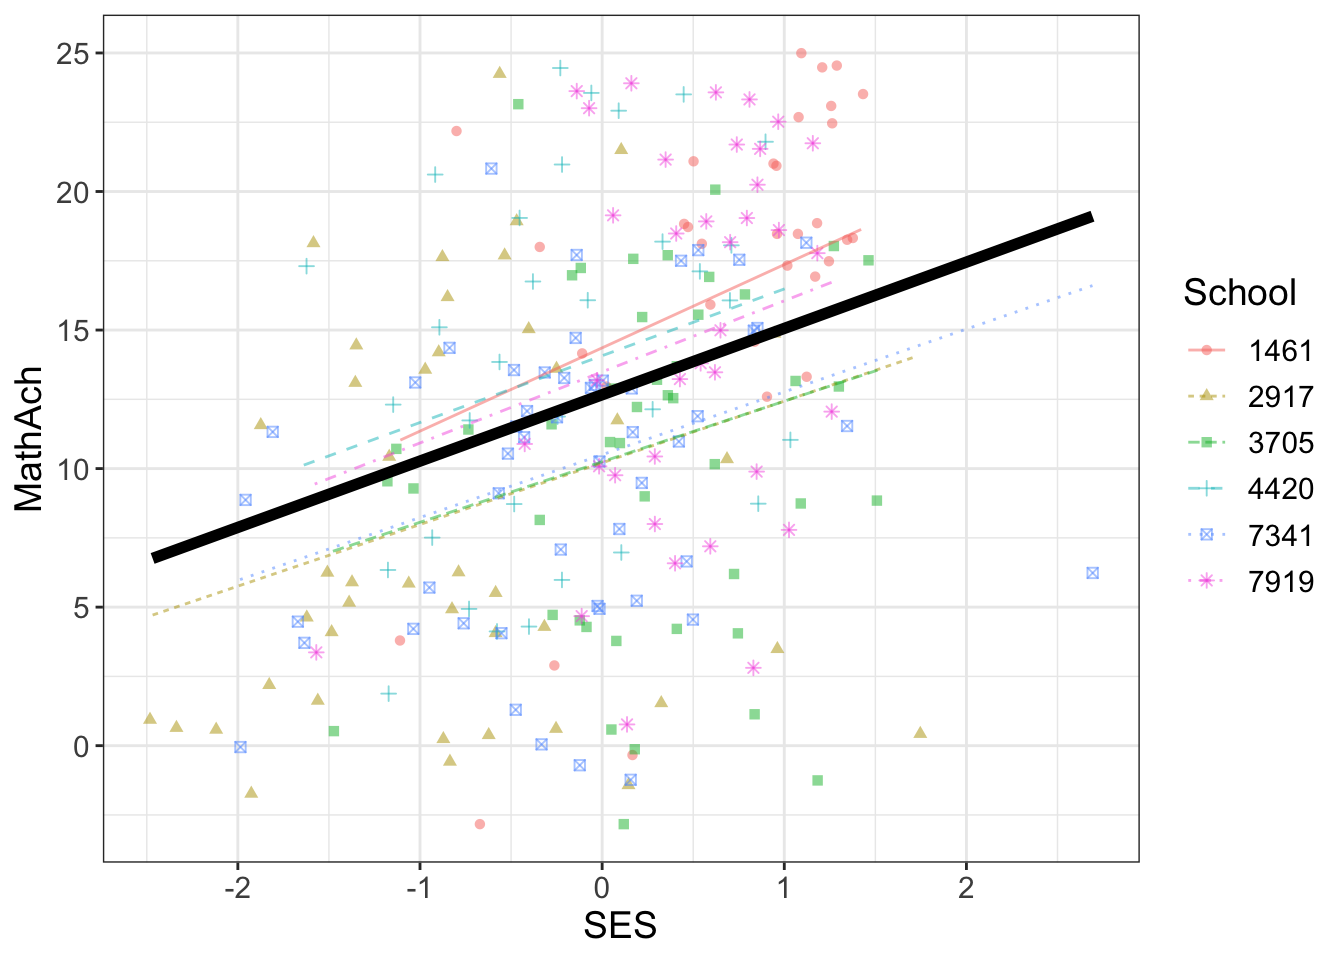
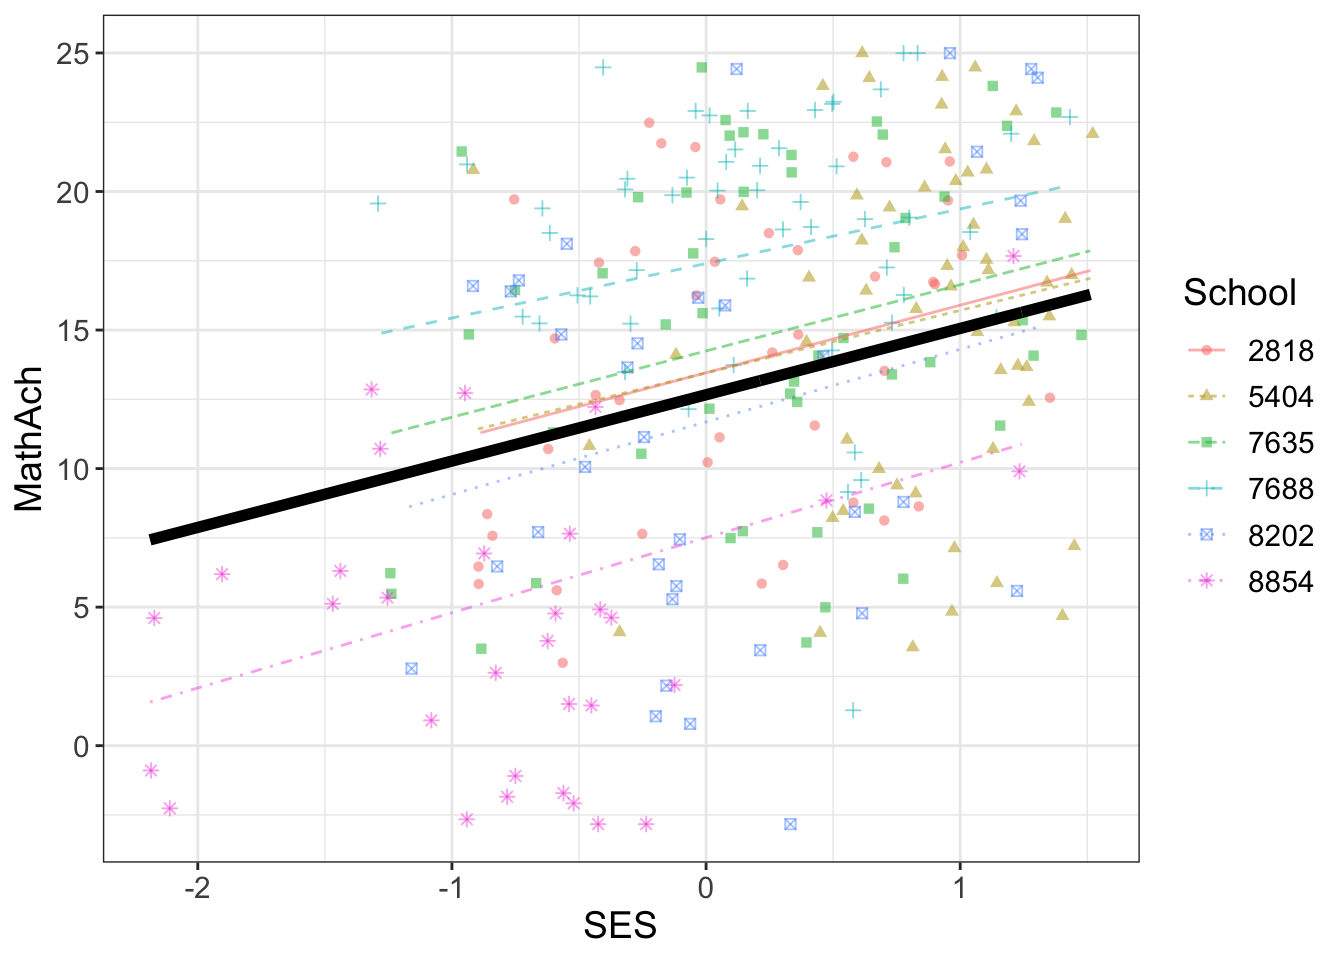
Built site for gh-pages

diff --git a/example_2.html b/example_2.html
@@ -409,7 +409,7 @@ SES -0.045</code></pre>
 <h4 class="anchored" data-anchor-id="comments-1">Comments</h4>
 <p>Fixed effect is very clear with individual schools being close to parallel</p>
 <div class="cell">
-<div class="sourceCode cell-code" id="cb35"><pre class="sourceCode r code-with-copy"><code class="sourceCode r"><span id="cb35-1"><a href="#cb35-1" aria-hidden="true" tabindex="-1"></a><span class="co"># no predictor</span></span>
+<div class="sourceCode cell-code" id="cb35"><pre class="sourceCode r code-with-copy"><code class="sourceCode r"><span id="cb35-1"><a href="#cb35-1" aria-hidden="true" tabindex="-1"></a><span class="co"># compare models</span></span>
 <span id="cb35-2"><a href="#cb35-2" aria-hidden="true" tabindex="-1"></a><span class="fu">model.comparison</span>(mod_baseline, mod_ses)</span></code><button title="Copy to Clipboard" class="code-copy-button"><i class="bi"></i></button></pre></div>
 <div class="cell-output cell-output-stderr">
 <pre><code>refitting model(s) with ML (instead of REML)</code></pre>
@@ -432,8 +432,109 @@ $r_squared_change
 </section>
 <section id="comments-2" class="level4">
 <h4 class="anchored" data-anchor-id="comments-2">Comments</h4>
-<p>Bayes Factor favors mod_ses and great p value</p>
-<p>to be continued…</p>
+<ul>
+<li><p>Bayes Factor favors mod_ses and great p value</p></li>
+<li><p>R^2 change (by using mod_ses that has SES predictor):</p>
+<ul>
+<li><p>explains 5.92 % of the residual variance. Difference between fitted models for each cluster (in this case, each school).</p></li>
+<li><p>43.94 % of variance in intercept (relative to the mod_base that has no predictor - juts the mean of every data point)</p></li>
+</ul></li>
+<li><p>Visualize that….</p></li>
+</ul>
+<div class="cell">
+<div class="sourceCode cell-code" id="cb38"><pre class="sourceCode r code-with-copy"><code class="sourceCode r"><span id="cb38-1"><a href="#cb38-1" aria-hidden="true" tabindex="-1"></a><span class="co"># see the difference with 3 example schools</span></span>
+<span id="cb38-2"><a href="#cb38-2" aria-hidden="true" tabindex="-1"></a><span class="fu">compare.fits</span>(MathAch<span class="sc">~</span>SES <span class="sc">|</span> School, mod_baseline, mod_ses, <span class="at">data =</span> math)</span></code><button title="Copy to Clipboard" class="code-copy-button"><i class="bi"></i></button></pre></div>
+<div class="cell-output-display">
+<p><img src="example_2_files/figure-html/unnamed-chunk-6-1.png" class="img-fluid" width="672"></p>
+</div>
+</div>
+<ul>
+<li><p>Plots are narrow</p></li>
+<li><p>sample=n is not observed</p></li>
+</ul>
+<div class="cell">
+<div class="sourceCode cell-code" id="cb39"><pre class="sourceCode r code-with-copy"><code class="sourceCode r"><span id="cb39-1"><a href="#cb39-1" aria-hidden="true" tabindex="-1"></a><span class="co"># a better model including Minority</span></span>
+<span id="cb39-2"><a href="#cb39-2" aria-hidden="true" tabindex="-1"></a>mod_ses_minority <span class="ot">&lt;-</span> <span class="fu">lmer</span>(MathAch<span class="sc">~</span>SES <span class="sc">+</span> Minority <span class="sc">+</span> (SES<span class="sc">|</span>School), <span class="at">data=</span>math)</span>
+<span id="cb39-3"><a href="#cb39-3" aria-hidden="true" tabindex="-1"></a><span class="fu">visualize</span>(mod_ses_minority, <span class="at">plot =</span> <span class="st">"model"</span>, <span class="at">sample =</span> <span class="dv">6</span>)</span></code><button title="Copy to Clipboard" class="code-copy-button"><i class="bi"></i></button></pre></div>
+<div class="cell-output-display">
+<p><img src="example_2_files/figure-html/unnamed-chunk-7-1.png" class="img-fluid" width="672"></p>
+</div>
+<div class="sourceCode cell-code" id="cb40"><pre class="sourceCode r code-with-copy"><code class="sourceCode r"><span id="cb40-1"><a href="#cb40-1" aria-hidden="true" tabindex="-1"></a><span class="fu">summary</span>(mod_ses_minority)</span></code><button title="Copy to Clipboard" class="code-copy-button"><i class="bi"></i></button></pre></div>
+<div class="cell-output cell-output-stdout">
+<pre><code>Linear mixed model fit by REML ['lmerMod']
+Formula: MathAch ~ SES + Minority + (SES | School)
+   Data: math
+
+REML criterion at convergence: 46443
+
+Scaled residuals: 
+    Min      1Q  Median      3Q     Max 
+-3.1742 -0.7243  0.0283  0.7577  3.0047 
+
+Random effects:
+ Groups   Name        Variance Std.Dev. Corr 
+ School   (Intercept)  3.9362  1.9840        
+          SES          0.3187  0.5645   -0.40
+ Residual             35.9967  5.9997        
+Number of obs: 7185, groups:  School, 160
+
+Fixed effects:
+            Estimate Std. Error t value
+(Intercept)  13.5047     0.1827   73.92
+SES           2.1326     0.1156   18.44
+MinorityYes  -2.9782     0.2081  -14.31
+
+Correlation of Fixed Effects:
+            (Intr) SES   
+SES         -0.194       
+MinorityYes -0.307  0.173</code></pre>
+</div>
+</div>
+<ul>
+<li>Compare …</li>
+</ul>
+<div class="cell">
+<div class="sourceCode cell-code" id="cb42"><pre class="sourceCode r code-with-copy"><code class="sourceCode r"><span id="cb42-1"><a href="#cb42-1" aria-hidden="true" tabindex="-1"></a><span class="co"># better model?</span></span>
+<span id="cb42-2"><a href="#cb42-2" aria-hidden="true" tabindex="-1"></a><span class="co"># compare models</span></span>
+<span id="cb42-3"><a href="#cb42-3" aria-hidden="true" tabindex="-1"></a><span class="fu">model.comparison</span>(mod_baseline, mod_ses_minority)</span></code><button title="Copy to Clipboard" class="code-copy-button"><i class="bi"></i></button></pre></div>
+<div class="cell-output cell-output-stderr">
+<pre><code>refitting model(s) with ML (instead of REML)</code></pre>
+</div>
+<div class="cell-output cell-output-stdout">
+<pre><code>$statistics
+                      aic      bic  bayes.factor      p
+mod_baseline     47122.79 47143.43  0.000000e+00 &lt;2e-16
+mod_ses_minority 46457.03 46505.19 3.917437e+138       
+
+$predicted_differences
+   0%   25%   50%   75%  100% 
+0.000 0.564 1.187 2.028 7.690 
+
+$r_squared_change
+   Residual (Intercept) 
+ 0.08050517  0.54305152 </code></pre>
+</div>
+</div>
+<ul>
+<li><p>Bayes Factor is much better</p></li>
+<li><p>R^2 change (by using mod_ses_minority that has SES and Minority predictors):</p>
+<ul>
+<li><p>explains 8.05 % of the residual variance. Difference between fitted models for each cluster (in this case, each school).</p></li>
+<li><p>54.31 % of variance in intercept (relative to the mod_base that has no predictor - juts the mean of every data point)</p></li>
+</ul></li>
+<li><p>Visualize that….</p></li>
+</ul>
+<div class="cell">
+<div class="sourceCode cell-code" id="cb45"><pre class="sourceCode r code-with-copy"><code class="sourceCode r"><span id="cb45-1"><a href="#cb45-1" aria-hidden="true" tabindex="-1"></a><span class="co"># see the difference with 3 example schools</span></span>
+<span id="cb45-2"><a href="#cb45-2" aria-hidden="true" tabindex="-1"></a><span class="fu">compare.fits</span>(MathAch<span class="sc">~</span>SES <span class="sc">|</span> Minority <span class="sc">+</span> School, mod_baseline, mod_ses_minority, <span class="at">data =</span> math)</span></code><button title="Copy to Clipboard" class="code-copy-button"><i class="bi"></i></button></pre></div>
+<div class="cell-output cell-output-stderr">
+<pre><code>`geom_line()`: Each group consists of only one observation.
+ℹ Do you need to adjust the group aesthetic?</code></pre>
+</div>
+<div class="cell-output-display">
+<p><img src="example_2_files/figure-html/unnamed-chunk-9-1.png" class="img-fluid" width="672"></p>
+</div>
+</div>
 
 
 </section>
